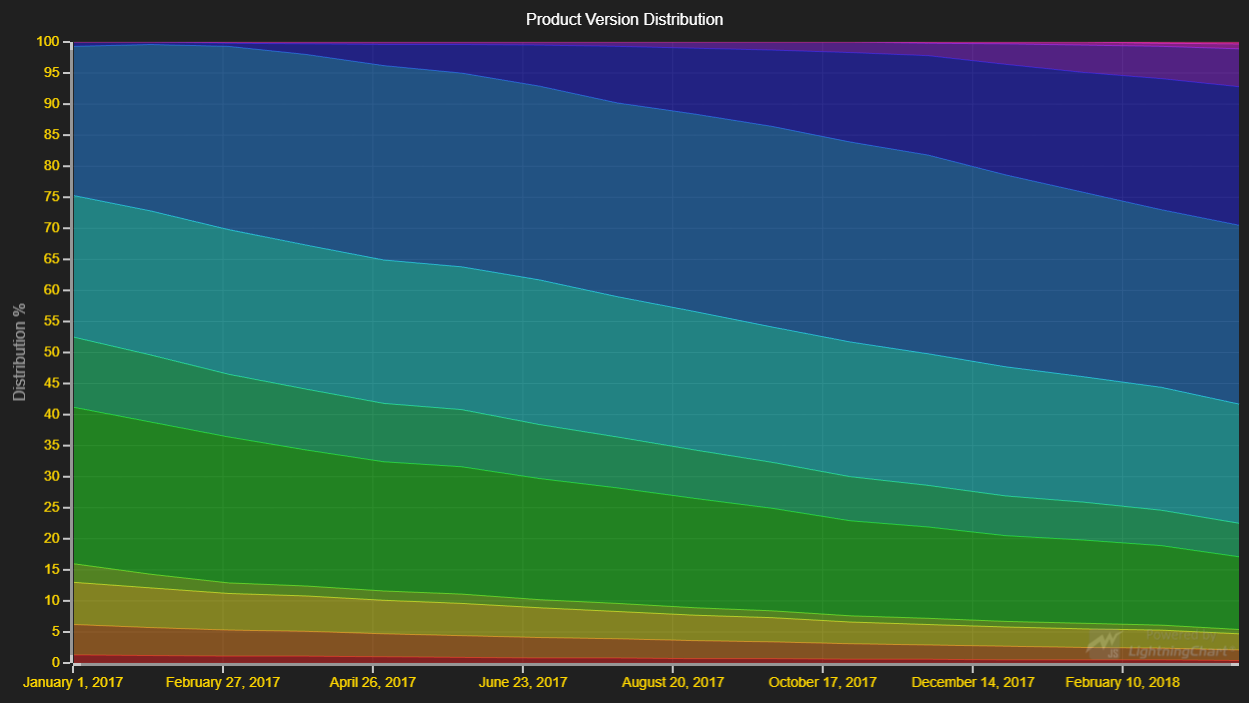
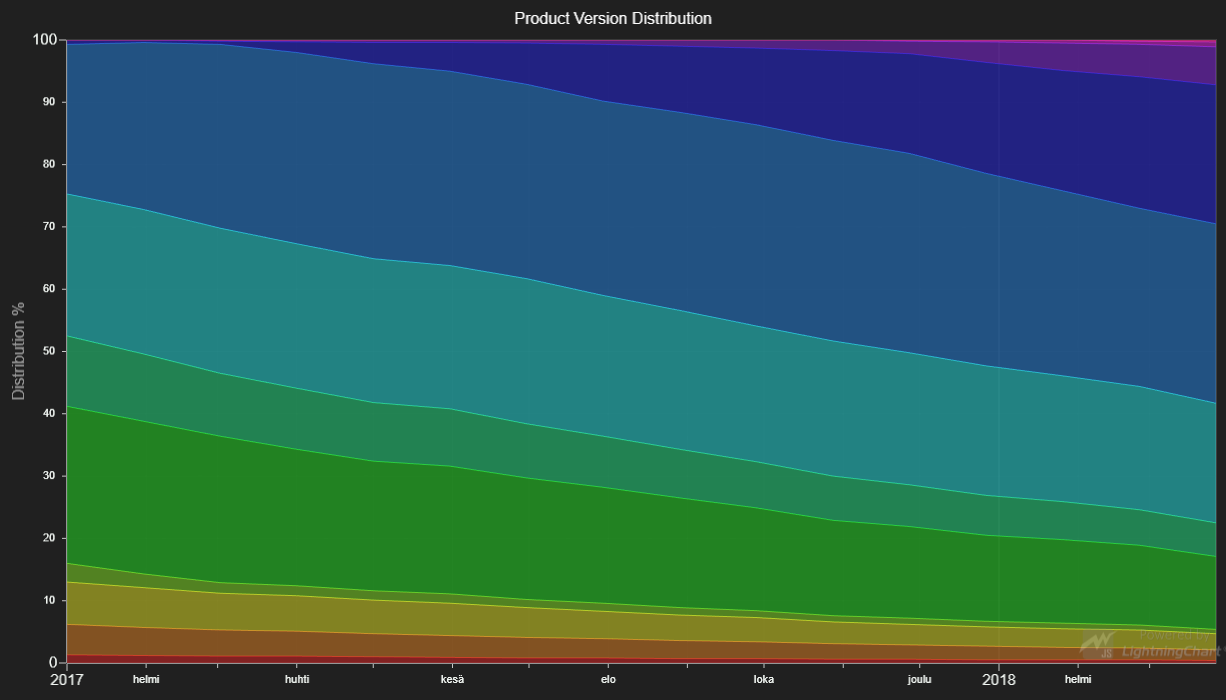
LCJS 2.0.0

diff --git a/src/index.js b/src/index.js
@@ -11,7 +11,8 @@ const {
     SolidFill,
     emptyLine,
     AxisTickStrategies,
-    AutoCursorModes
+    AutoCursorModes,
+    Themes
 } = lcjs
 
 // ----- Cache styles -----
@@ -25,13 +26,23 @@ const dateOrigin = new Date(2017, 0, 1)
 const dataFrequency = 60 * 60 * 24 * 30 * 1000
 // Create a XY Chart.
 const xyChart = lightningChart().ChartXY({
-    defaultAxisXTickStrategy: AxisTickStrategies.DateTime(dateOrigin)
+    // theme: Themes.dark
 })
+
+// Set up the Chart, disable zooming and panning mouse interactions
+// and set AutoCursor to show when hovering mouse over Series.
+xyChart
     .setTitle('Product Version Distribution')
-    .setAutoCursorMode(AutoCursorModes.onHover)
     .setMouseInteractions(false)
+    .setAutoCursorMode(AutoCursorModes.onHover)
+
 // Set up the X and Y Axes for the chart.
-xyChart.getDefaultAxisX()
+xyChart
+    .getDefaultAxisX()
+    .setTickStrategy(
+        AxisTickStrategies.DateTime,
+        (tickStrategy) => tickStrategy.setDateOrigin(dateOrigin)
+    )
     .setMouseInteractions(false)
 
 xyChart.getDefaultAxisY()

diff --git a/README.md b/README.md
@@ -32,24 +32,21 @@ const areaFirst = chart.addAreaSeries()
 // Create the next AreaRange series to be stacked on top of previous.
 const areaNext1 = chart.addAreaRangeSeries()
 const areaNext2 = chart.addAreaRangeSeries()
-...
-...
-...
 ```
 
 
 ## API Links
 
-* XY cartesian chart: [ChartXY]
-* Area point: [AreaPoint]
-* Area series: [AreaSeries]
-* Area type: [AreaSeriesTypes]
-* Positive Area series: [AreaSeriesPositive]
-* Negative Area series: [AreaSeriesNegative]
-* Area Range series: [AreaRangeSeries]
-* Color palettes: [ColorPalettes]
-* Solid FillStyle: [SolidFill]
-* RGBA color factory: [ColorRGBA]
+* [XY cartesian chart]
+* [Area point]
+* [Area series]
+* [Area type]
+* [Positive Area series]
+* [Negative Area series]
+* [Area Range series]
+* [Color palettes]
+* [Solid FillStyle]
+* [RGBA color factory]
 
 
 ## Support
@@ -73,14 +70,14 @@ Direct developer email support can be purchased through a [Support Plan][4] or b
 © Arction Ltd 2009-2020. All rights reserved.
 
 
-[ChartXY]: https://www.arction.com/lightningchart-js-api-documentation/v1.3.0/classes/chartxy.html
-[AreaPoint]: https://www.arction.com/lightningchart-js-api-documentation/v1.3.0/interfaces/areapoint.html
-[AreaSeries]: https://www.arction.com/lightningchart-js-api-documentation/v1.3.0/classes/chartxy.html#addareaseries
-[AreaSeriesTypes]: https://www.arction.com/lightningchart-js-api-documentation/v1.3.0/globals.html#areaseriestypes
-[AreaSeriesPositive]: https://www.arction.com/lightningchart-js-api-documentation/v1.3.0/classes/areaseriespositive.html
-[AreaSeriesNegative]: https://www.arction.com/lightningchart-js-api-documentation/v1.3.0/classes/areaseriesnegative.html
-[AreaRangeSeries]: https://www.arction.com/lightningchart-js-api-documentation/v1.3.0/classes/arearangeseries.html
-[ColorPalettes]: https://www.arction.com/lightningchart-js-api-documentation/v1.3.0/globals.html#colorpalettes
-[SolidFill]: https://www.arction.com/lightningchart-js-api-documentation/v1.3.0/classes/solidfill.html
-[ColorRGBA]: https://www.arction.com/lightningchart-js-api-documentation/v1.3.0/globals.html#colorrgba
+[XY cartesian chart]: https://www.arction.com/lightningchart-js-api-documentation/v2.0.0/classes/chartxy.html
+[Area point]: https://www.arction.com/lightningchart-js-api-documentation/v2.0.0/interfaces/areapoint.html
+[Area series]: https://www.arction.com/lightningchart-js-api-documentation/v2.0.0/classes/chartxy.html#addareaseries
+[Area type]: https://www.arction.com/lightningchart-js-api-documentation/v2.0.0/globals.html#areaseriestypes
+[Positive Area series]: https://www.arction.com/lightningchart-js-api-documentation/v2.0.0/classes/areaseriespositive.html
+[Negative Area series]: https://www.arction.com/lightningchart-js-api-documentation/v2.0.0/classes/areaseriesnegative.html
+[Area Range series]: https://www.arction.com/lightningchart-js-api-documentation/v2.0.0/classes/arearangeseries.html
+[Color palettes]: https://www.arction.com/lightningchart-js-api-documentation/v2.0.0/globals.html#colorpalettes
+[Solid FillStyle]: https://www.arction.com/lightningchart-js-api-documentation/v2.0.0/classes/solidfill.html
+[RGBA color factory]: https://www.arction.com/lightningchart-js-api-documentation/v2.0.0/globals.html#colorrgba
 
